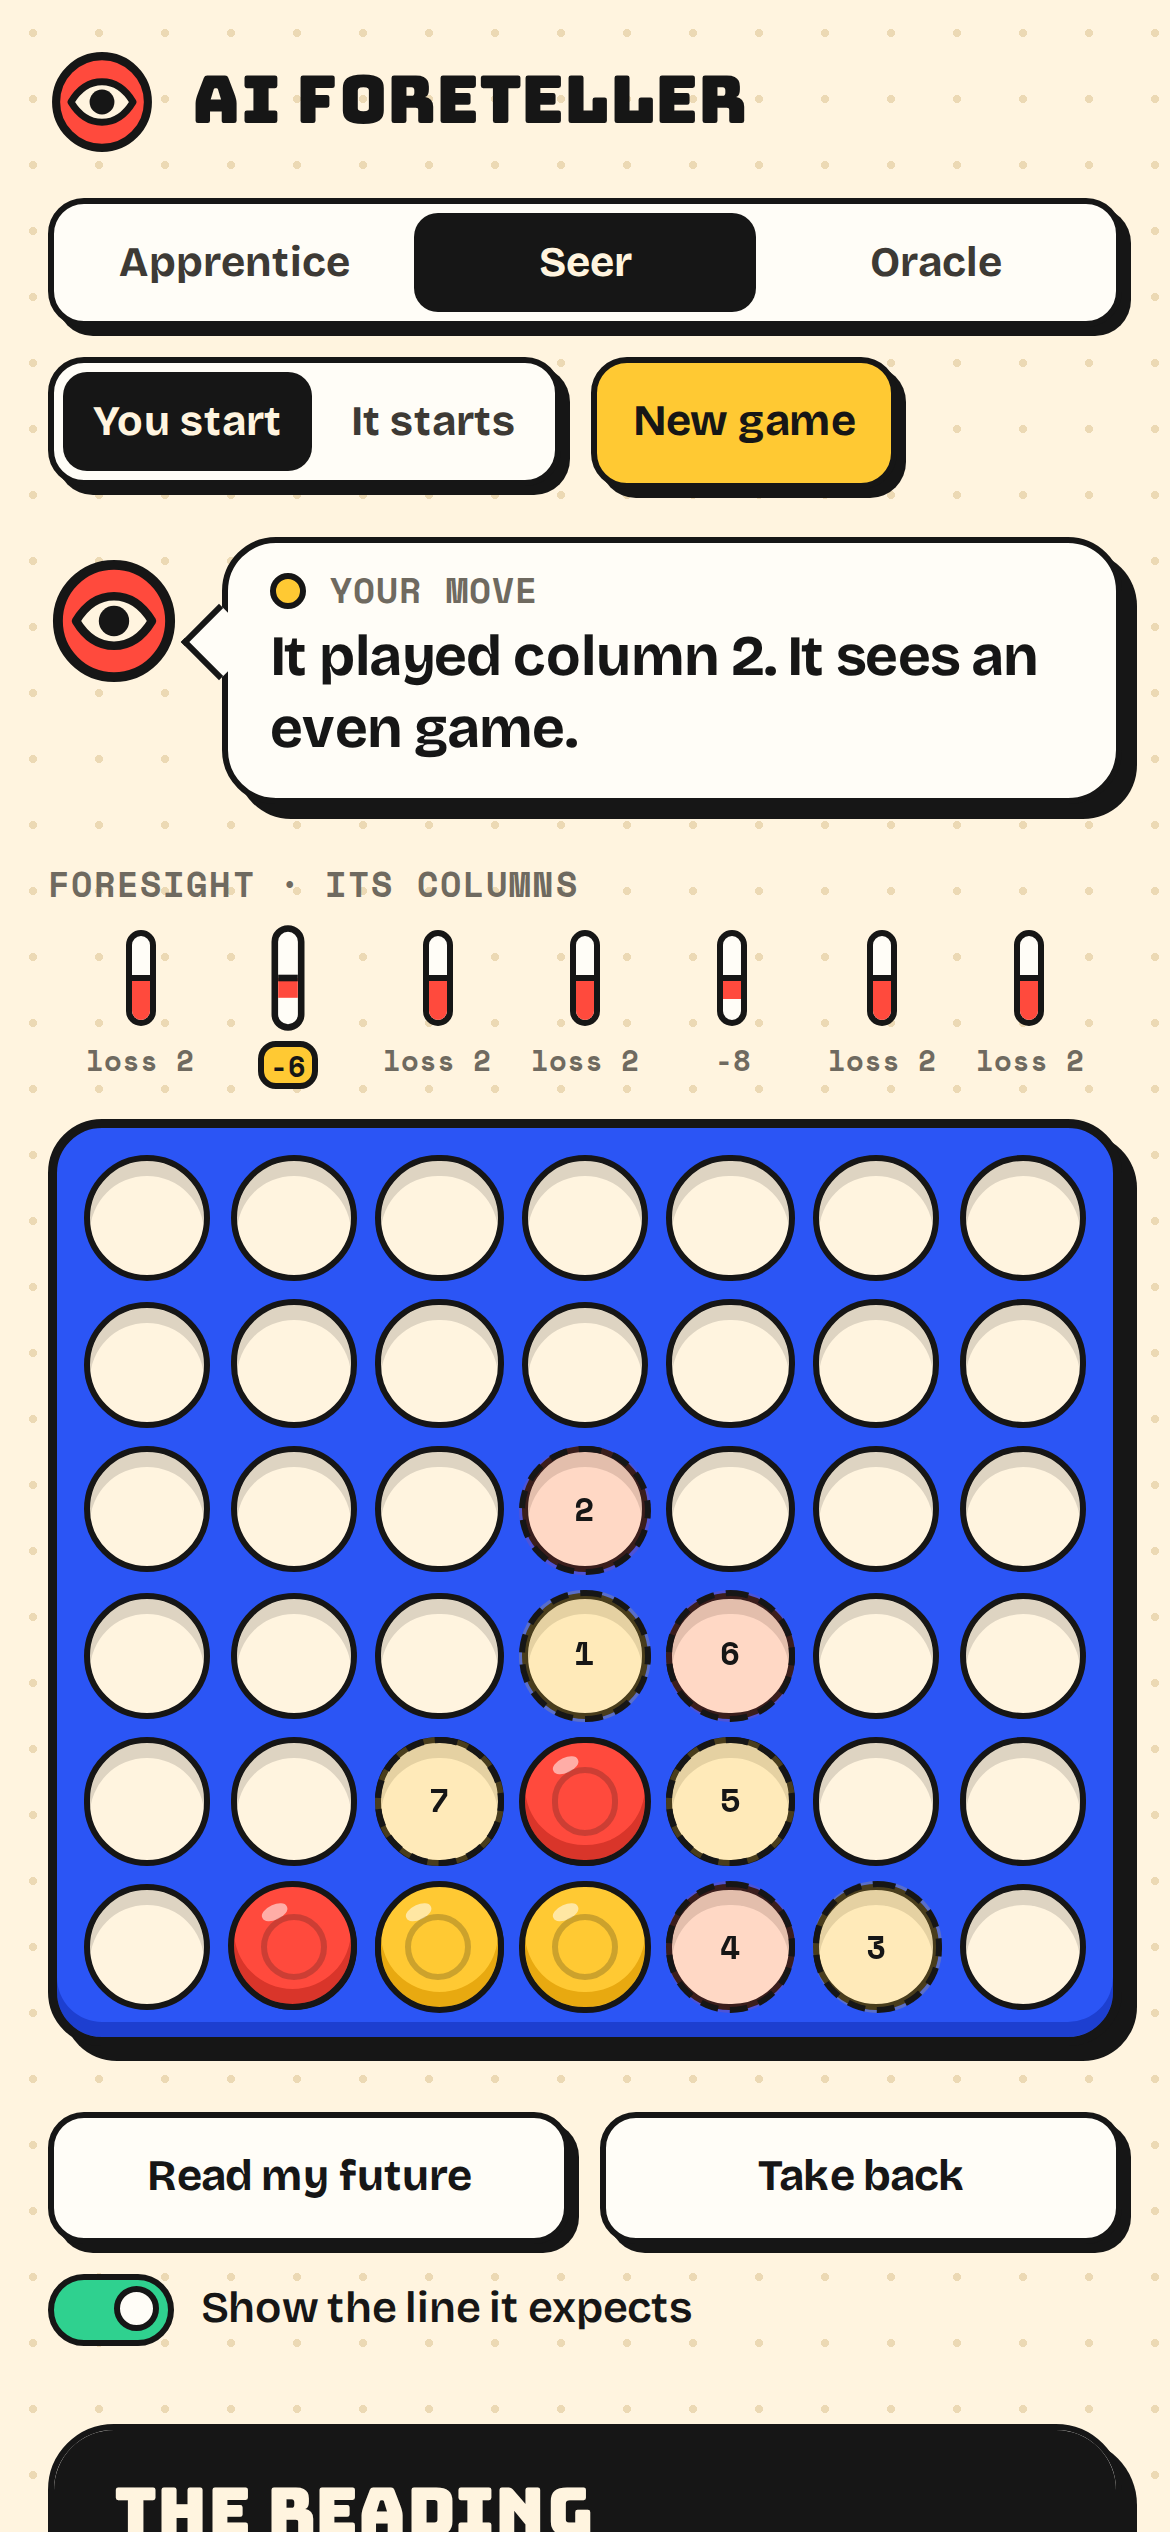
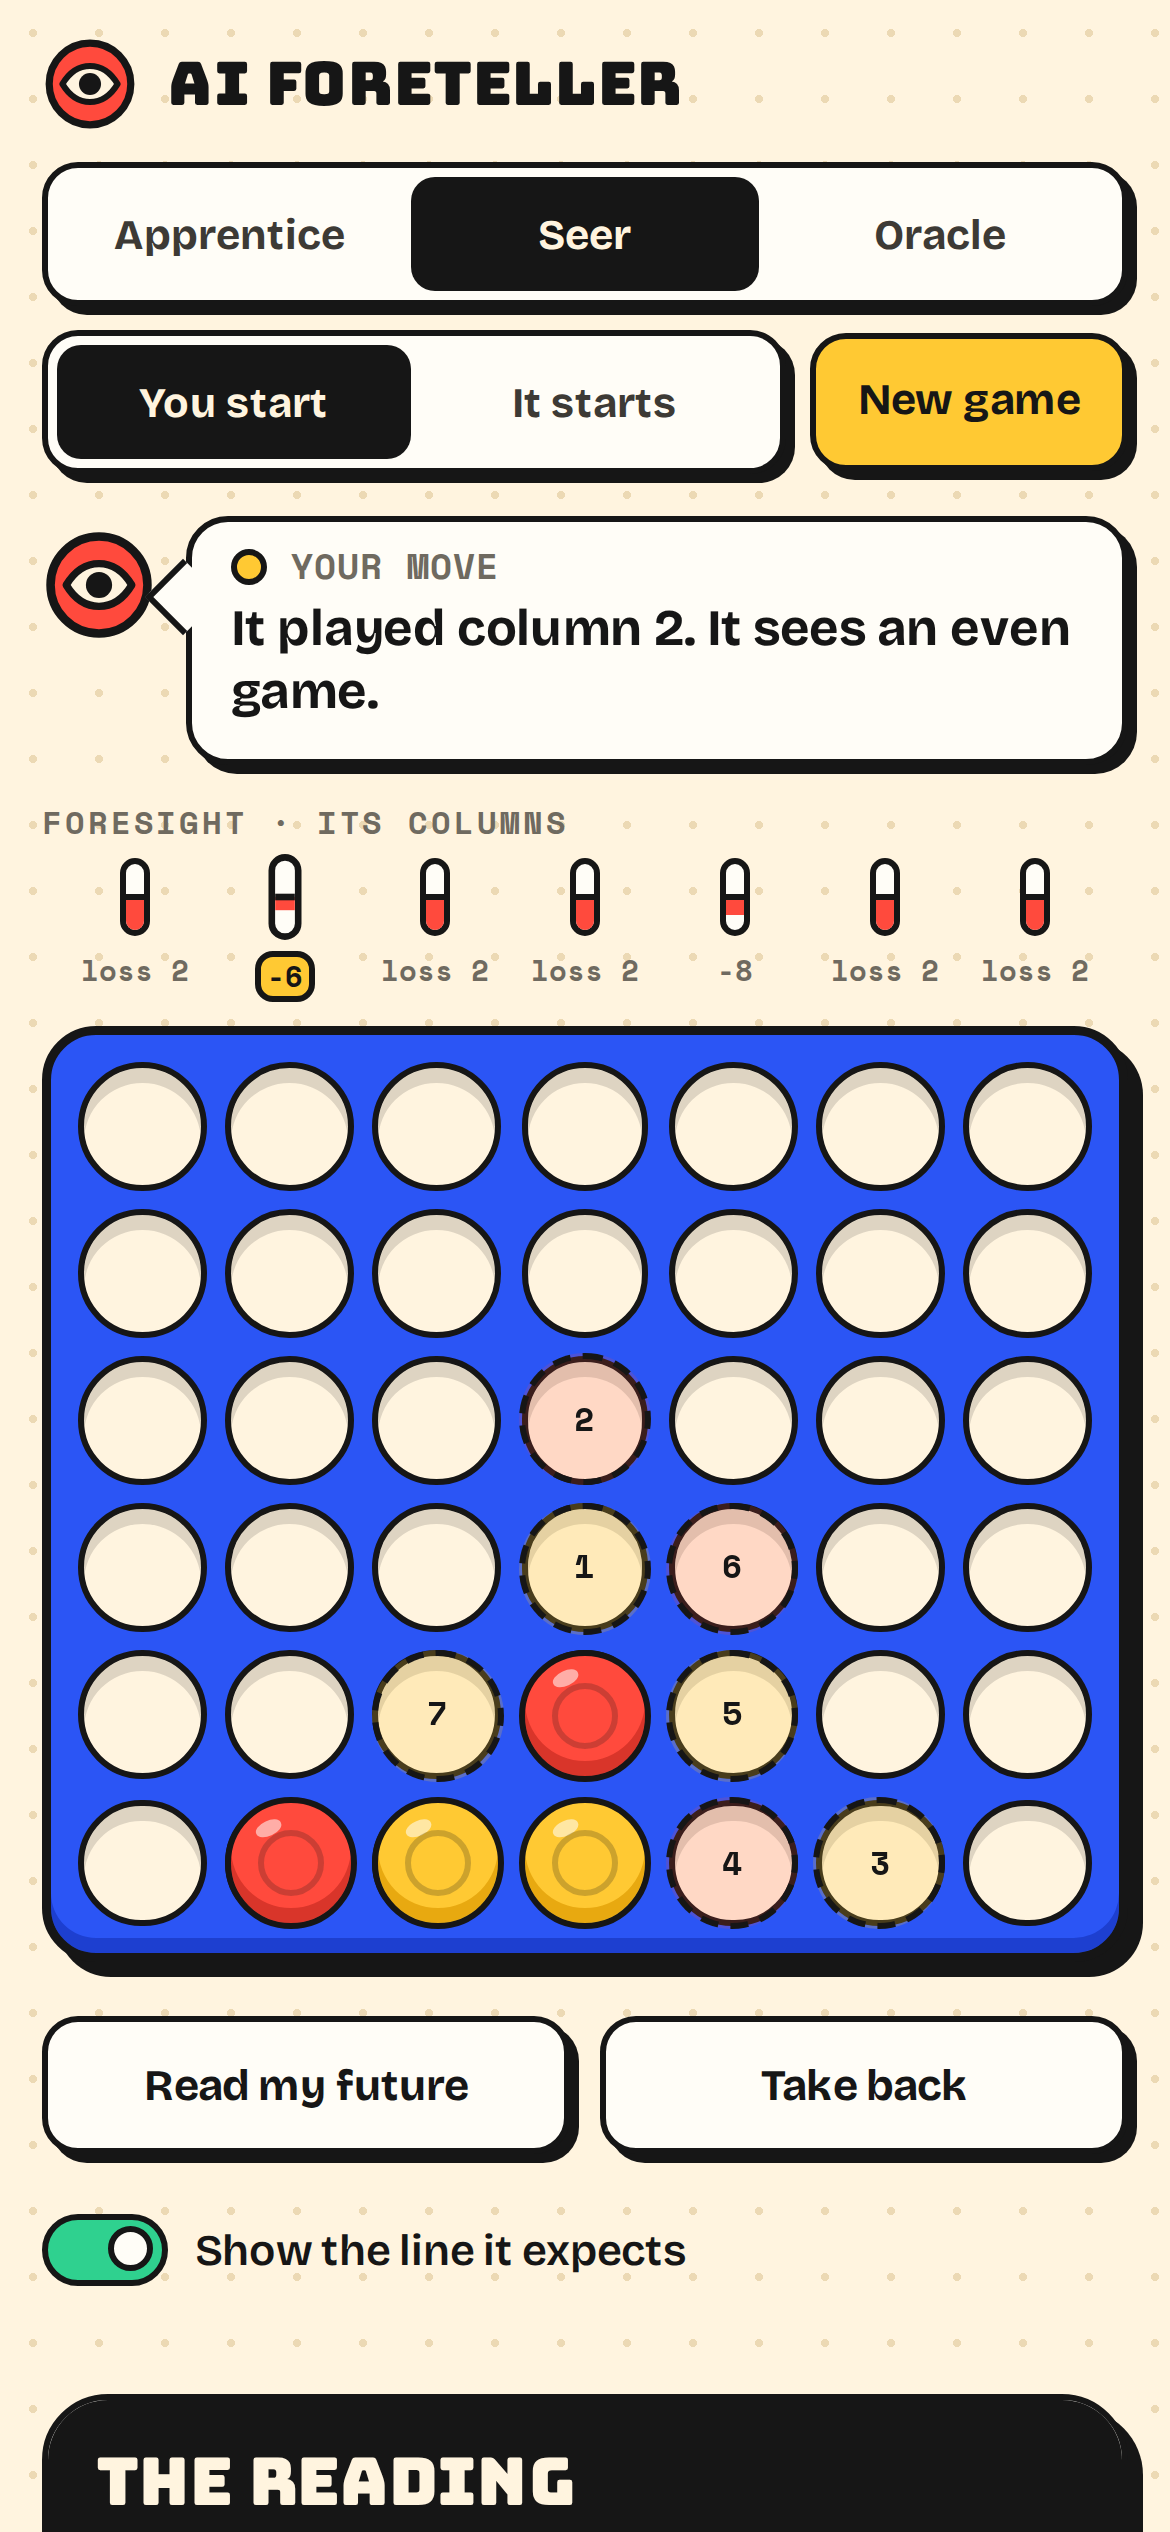
Phones: tighter header, bigger touch targets, landscape layout with the board beside the talk, no double-tap zoom

diff --git a/styles.css b/styles.css
@@ -27,7 +27,9 @@
 }
 
 *, *::before, *::after { box-sizing: border-box; }
-html { -webkit-text-size-adjust: 100%; }
+html { -webkit-text-size-adjust: 100%; touch-action: manipulation; } /* no double-tap zoom delay on phones */
+button, .switch { -webkit-tap-highlight-color: transparent; }
+.board, .foresight { -webkit-user-select: none; user-select: none; }
 body {
   margin: 0;
   min-height: 100vh;
@@ -416,33 +418,88 @@ button:focus-visible, input:focus-visible + span { outline: 3px solid var(--coba
 }
 
 @media (max-width: 600px) {
-  .top { padding: 16px 16px 4px; }
-  .brand { font-size: 22px; }
-  .brand__mark { width: 36px; height: 36px; }
-  .controls { width: 100%; }
-  #levels { flex: 1; }
+  .top { padding: 12px 14px 2px; gap: 10px; }
+  .brand { font-size: 20px; gap: 10px; }
+  .brand__mark { width: 32px; height: 32px; }
+  .controls { width: 100%; gap: 8px; }
+  #levels { flex: 1 1 100%; }
   #levels button { flex: 1; padding: 6px 6px; }
-  #starters button { padding: 6px 10px; }
-  #newGame { padding: 9px 12px; }
-  .stage { padding: 12px 16px 24px; gap: 26px; }
-  .seer { width: 44px; height: 44px; }
-  .bubble { min-height: 84px; padding: 10px 14px 12px; }
-  .actions .btn { flex: 1; }
-  .switch { margin-left: 0; width: 100%; }
+  #starters { flex: 1; }
+  #starters button { flex: 1; padding: 6px 8px; }
+  .seg button { min-height: 38px; }
+  #newGame { min-height: 46px; padding: 9px 14px; }
+  .stage { padding: 12px 14px 24px; gap: 26px; }
+  .verdict { gap: 10px; margin-bottom: 12px; }
+  .seer { width: 38px; height: 38px; margin-top: 4px; }
+  .bubble { min-height: 0; padding: 9px 13px 11px; border-radius: 14px; box-shadow: var(--pop-sm); }
+  .bubble::before { top: 16px; }
+  .verdict__text { font-size: 17px; }
+  .foresight { margin-bottom: 8px; }
+  .foresight__label { margin-bottom: 4px; font-size: 10.5px; }
+  .actions { margin-top: 18px; }
+  .actions .btn { flex: 1; min-height: 46px; }
+  .switch { margin-left: 0; width: 100%; min-height: 44px; }
+  .result { margin-top: 18px; }
   .board { border-radius: 18px; box-shadow: 5px 5px 0 var(--ink), inset 0 -5px 0 var(--cobalt-2); }
   .cell, .cell.is-you .disc, .cell.is-ai .disc { border-width: 2px; }
-  .fs__bar { height: 32px; width: 10px; }
+  .fs__bar { height: 26px; width: 10px; }
   .fs__val { font-size: 9.5px; }
   .fs.is-best .fs__val { padding: 0 2px; }
+  .reading > * { padding-left: 16px; padding-right: 16px; }
   .stats dd { font-size: 20px; }
-  .depths__list li { grid-template-columns: 24px 44px 1fr 50px 58px; }
-  .foot { padding: 8px 16px 22px; }
+  .compare__row { grid-template-columns: 86px 1fr 76px; }
+  .depths__list li { grid-template-columns: 24px 44px 1fr 50px 58px; padding: 6px 8px; }
+  .foot { padding: 8px 16px calc(22px + env(safe-area-inset-bottom)); }
 }
 
 @media (max-width: 380px) {
-  #starters, #newGame { flex: 1; }
-  #starters button { flex: 1; }
+  .top { padding: 10px 10px 2px; }
+  .stage { padding: 10px 10px 22px; }
+  .seg button { font-size: 13px; }
+  .seer { display: none; }
+  .bubble::before { display: none; }
+  .verdict__text { font-size: 16px; }
+  .controls { gap: 6px; }
+  .foresight__label { display: none; }
+  .fs__bar { height: 20px; }
   .fs__val { font-size: 8.5px; }
+}
+
+/* touch screens of any size: comfortable targets */
+@media (pointer: coarse) {
+  .seg button { min-height: 40px; }
+  .switch { min-height: 44px; }
+}
+
+/* Phones on their side: board on the left sized to the screen height, the talk and buttons beside it. */
+@media (orientation: landscape) and (max-height: 540px) {
+  .top { padding: 10px 20px 2px; }
+  .brand { font-size: 20px; }
+  .brand__mark { width: 30px; height: 30px; }
+  .seg button { min-height: 36px; }
+  .top { gap: 8px 16px; }
+  .stage { padding: 6px 20px 24px; }
+  .foresight__label { display: none; }
+  .play {
+    --board-w: min(100%, calc((100svh - 150px) * 1.15)); /* header, row of scores and padding fit above and below */
+    max-width: none;
+    display: grid;
+    grid-template-columns: var(--board-w) minmax(0, 1fr);
+    grid-template-rows: auto auto auto 1fr;
+    column-gap: 24px;
+    align-items: start;
+  }
+  .foresight { grid-column: 1; grid-row: 1; }
+  .board { grid-column: 1; grid-row: 2 / span 3; }
+  .verdict { grid-column: 2; grid-row: 1 / span 2; margin: 0; }
+  .result { grid-column: 2; grid-row: 3; margin-top: 14px; }
+  .actions { grid-column: 2; grid-row: 4; margin-top: 14px; }
+  .seer { width: 38px; height: 38px; }
+  .bubble { min-height: 0; }
+  .verdict__text { font-size: 17px; }
+  .fs__bar { height: 24px; }
+  .actions .btn { flex: 1; }
+  .switch { margin-left: 0; width: 100%; }
 }
 
 @media (hover: none) {

diff --git a/js/app.js b/js/app.js
@@ -253,7 +253,13 @@
       ? `Four in a row against the ${level[0].toUpperCase() + level.slice(1)}. Try a harder level next.`
       : winner ? `The Foreteller connected four in ${aiMoves} moves.` : 'The board filled with no four in a row.';
     els.verdict.textContent = winner === you ? 'You won.' : winner ? 'The Foreteller won.' : 'Nobody won this one.';
-    setTimeout(() => { if (over) els.result.hidden = false; }, 700);
+    setTimeout(() => {
+      if (!over) return;
+      els.result.hidden = false;
+      // on a small phone the card lands below the board, so bring it into view
+      const r = els.result.getBoundingClientRect();
+      if (r.bottom > innerHeight) els.result.scrollIntoView({ block: 'end', behavior: 'smooth' });
+    }, 700);
     setTurn(false);
     return true;
   }

diff --git a/index.html b/index.html
@@ -2,7 +2,7 @@
 <html lang="en">
 <head>
   <meta charset="UTF-8">
-  <meta name="viewport" content="width=device-width, initial-scale=1">
+  <meta name="viewport" content="width=device-width, initial-scale=1, viewport-fit=cover">
   <title>AI Foreteller</title>
   <meta name="description" content="Connect Four against an AI that shows you what it sees: every column scored, the line of play it expects, and how much of the game tree alpha-beta pruning skipped.">
   <meta name="theme-color" content="#FFF4DF">
